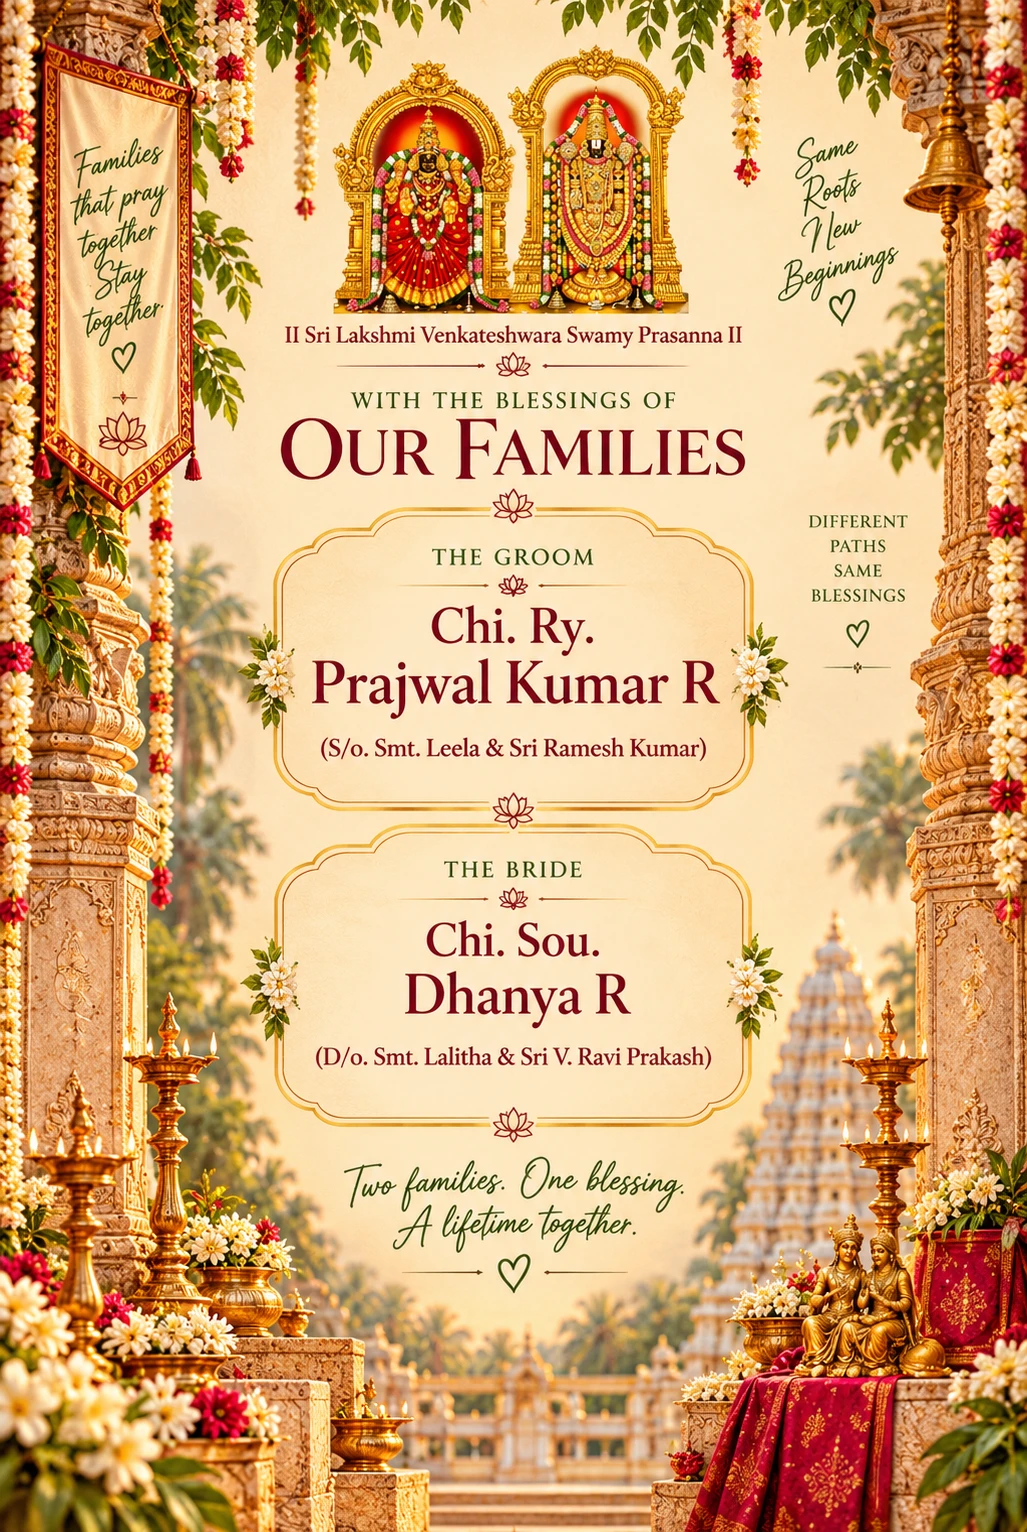
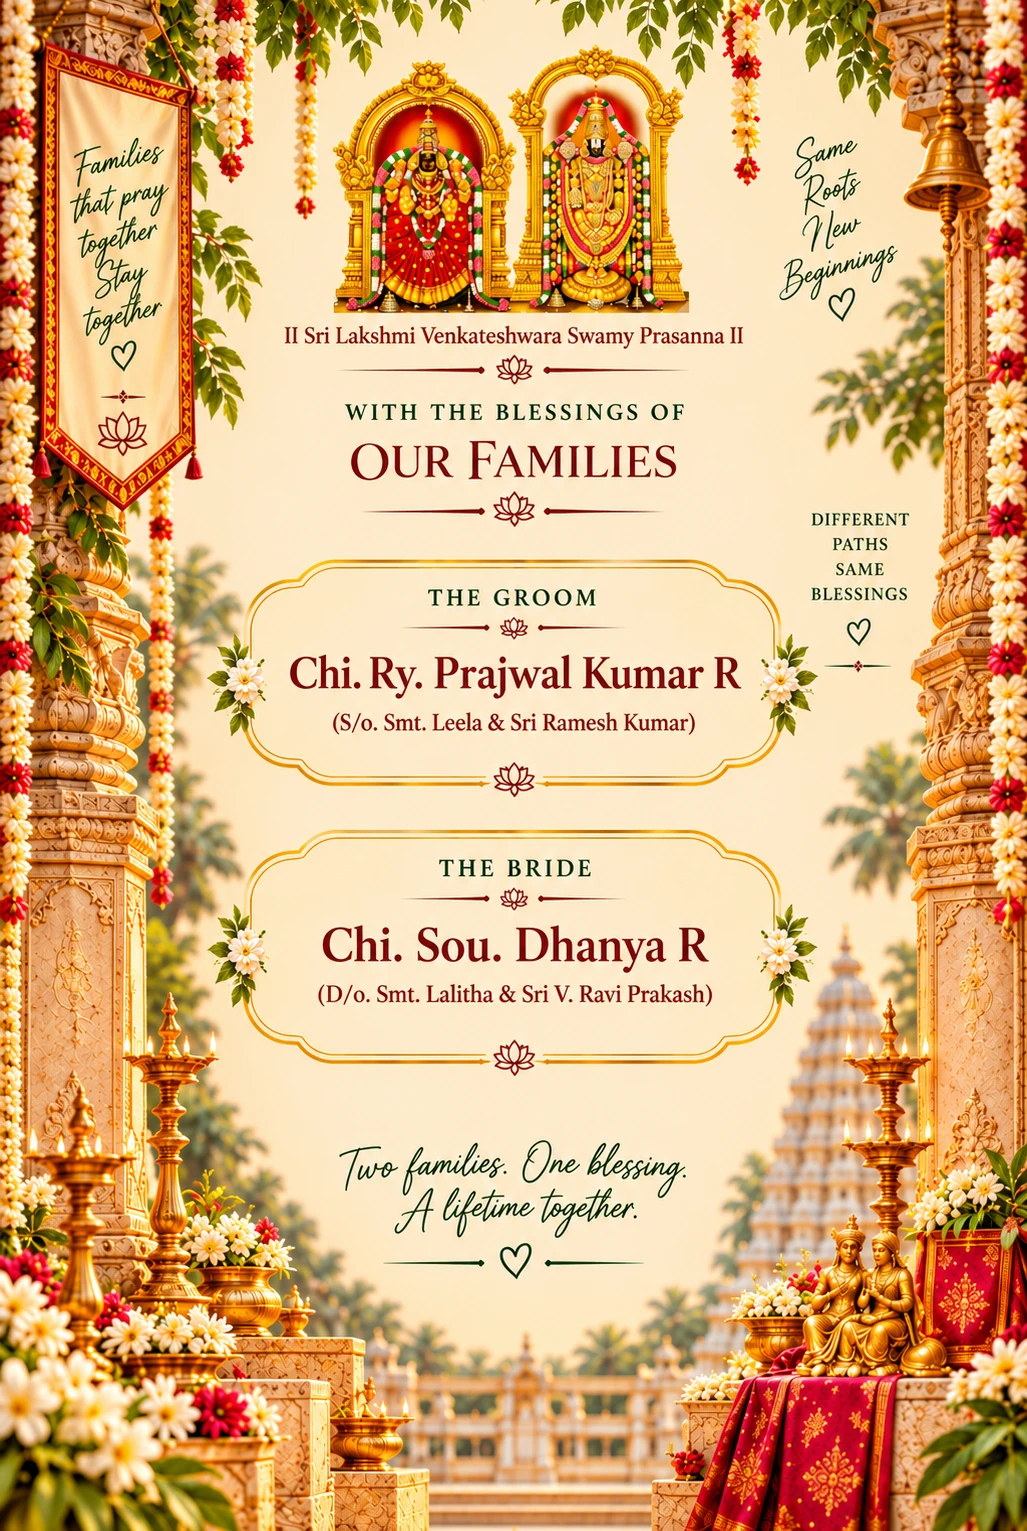
Replace Family, Muhurtham and Thank You slide images
Use updated designs with correct text baked in, removing
the need for CSS overlay code and URL cover workarounds.

diff --git a/slides.html b/slides.html
@@ -5,7 +5,7 @@
 <meta name="viewport" content="width=device-width, initial-scale=1.0, maximum-scale=1.0, user-scalable=no">
 <title>Prajwal & Dhanya - Wedding Events</title>
 <link rel="preconnect" href="https://fonts.googleapis.com">
-<link href="https://fonts.googleapis.com/css2?family=Cormorant+Garamond:ital,wght@1,400&family=Playfair+Display:wght@400;700&display=swap" rel="stylesheet">
+<link href="https://fonts.googleapis.com/css2?family=Playfair+Display:wght@400;700&display=swap" rel="stylesheet">
 <style>
   * { margin: 0; padding: 0; box-sizing: border-box; }
   html, body {
@@ -91,49 +91,6 @@
     width: 70%;
     height: 7%;
     border-radius: 30px;
-  }
-
-  /* Cover + overlay text for Muhurtham slide paragraph */
-  .inviting-cover {
-    position: absolute;
-    z-index: 4;
-    background: radial-gradient(ellipse at 50% 45%, rgb(255,238,208) 0%, rgb(252,227,180) 100%);
-    opacity: 0;
-    transition: opacity 0.3s;
-  }
-  .inviting-cover.ready { opacity: 1; }
-  .inviting-text {
-    position: absolute;
-    z-index: 5;
-    font-family: 'Cormorant Garamond', serif;
-    font-weight: 400;
-    font-style: italic;
-    color: rgb(132, 76, 61);
-    text-align: center;
-    display: flex;
-    flex-direction: column;
-    align-items: center;
-    justify-content: center;
-    opacity: 0;
-    transition: opacity 0.3s;
-  }
-  .inviting-text.ready { opacity: 1; }
-
-  /* Cover to hide the URL text in the image */
-  .url-cover {
-    position: absolute;
-    z-index: 4;
-    top: 57.3%;
-    left: 18%;
-    width: 64%;
-    height: 3%;
-    background: linear-gradient(180deg,
-      rgb(93,2,10) 0%,
-      rgb(93,2,10) 40%,
-      rgb(180,120,50) 75%,
-      rgb(245,197,99) 100%
-    );
-    border-radius: 0 0 8px 8px;
   }
 
   /* Thank You slide - venue address */
@@ -285,8 +242,6 @@
   <div class="slide" data-i="2">
     <img src="images/4.webp" alt="Muhurtham">
     <span class="tag">Muhurtham</span>
-    <div class="inviting-cover" id="invitingCover"></div>
-    <div class="inviting-text" id="invitingText"><span>To share the joy of our</span><span>wedding ceremony as we being our</span><span>new journey together.</span></div>
     <a class="hotspot hs-muhurtham-loc" href="https://www.google.com/maps/search/P.G.M.+Srigandha+Palace+Bellari+Road+Hebbal+Bengaluru+560092" target="_blank" rel="noopener"></a>
   </div>
 
@@ -295,7 +250,6 @@
     <img src="images/5.webp" alt="Thank You">
     <span class="tag">Thank You</span>
     <a class="hotspot hs-thankyou-btn" href="https://www.google.com/maps/search/P.G.M.+Srigandha+Palace+Bellari+Road+Hebbal+Bengaluru+560092" target="_blank" rel="noopener"></a>
-    <div class="url-cover"></div>
     <a class="hotspot hs-thankyou-addr" href="https://www.google.com/maps/search/P.G.M.+Srigandha+Palace+Bellari+Road+Hebbal+Bengaluru+560092" target="_blank" rel="noopener"></a>
   </div>
 
@@ -386,41 +340,6 @@
   // Auto-hide hint
   setTimeout(() => hint.classList.add('gone'), 4000);
 
-  // Position cover + overlay text on Muhurtham slide (all 3 lines)
-  function positionInvitingCover() {
-    const img = document.querySelector('.slide[data-i="2"] img');
-    const cover = document.getElementById('invitingCover');
-    const text = document.getElementById('invitingText');
-    if (!img || !img.naturalWidth) return;
-    const imgW = img.naturalWidth, imgH = img.naturalHeight;
-    const vw = window.innerWidth, vh = window.innerHeight;
-    const imgRatio = imgW / imgH, vpRatio = vw / vh;
-    let scale, offsetX = 0;
-    if (vpRatio > imgRatio) { scale = vw / imgW; }
-    else { scale = vh / imgH; offsetX = (vw - imgW * scale) / 2; }
-    const L = 0.255, R = 0.745, T = 0.328, B = 0.410;
-    const left = L * imgW * scale + offsetX;
-    const top = T * imgH * scale;
-    const w = (R - L) * imgW * scale;
-    const h = (B - T) * imgH * scale;
-    cover.style.left = left + 'px';
-    cover.style.top = top + 'px';
-    cover.style.width = w + 'px';
-    cover.style.height = h + 'px';
-    cover.classList.add('ready');
-    text.style.left = left + 'px';
-    text.style.top = top + 'px';
-    text.style.width = w + 'px';
-    text.style.height = h + 'px';
-    const lineH = h / 3;
-    text.style.fontSize = (lineH * 0.62) + 'px';
-    text.querySelectorAll('span').forEach(s => s.style.lineHeight = lineH + 'px');
-    text.classList.add('ready');
-  }
-  const muhImg = document.querySelector('.slide[data-i="2"] img');
-  if (muhImg.complete) positionInvitingCover();
-  else muhImg.addEventListener('load', positionInvitingCover);
-  window.addEventListener('resize', positionInvitingCover);
 </script>
 </body>
 </html>
